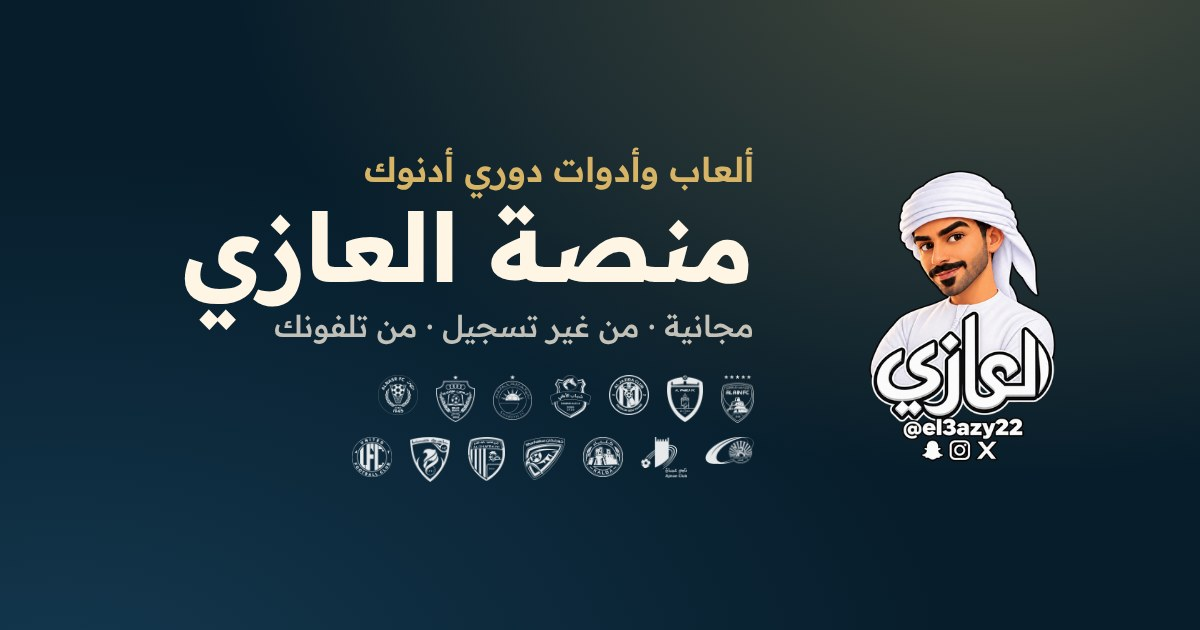
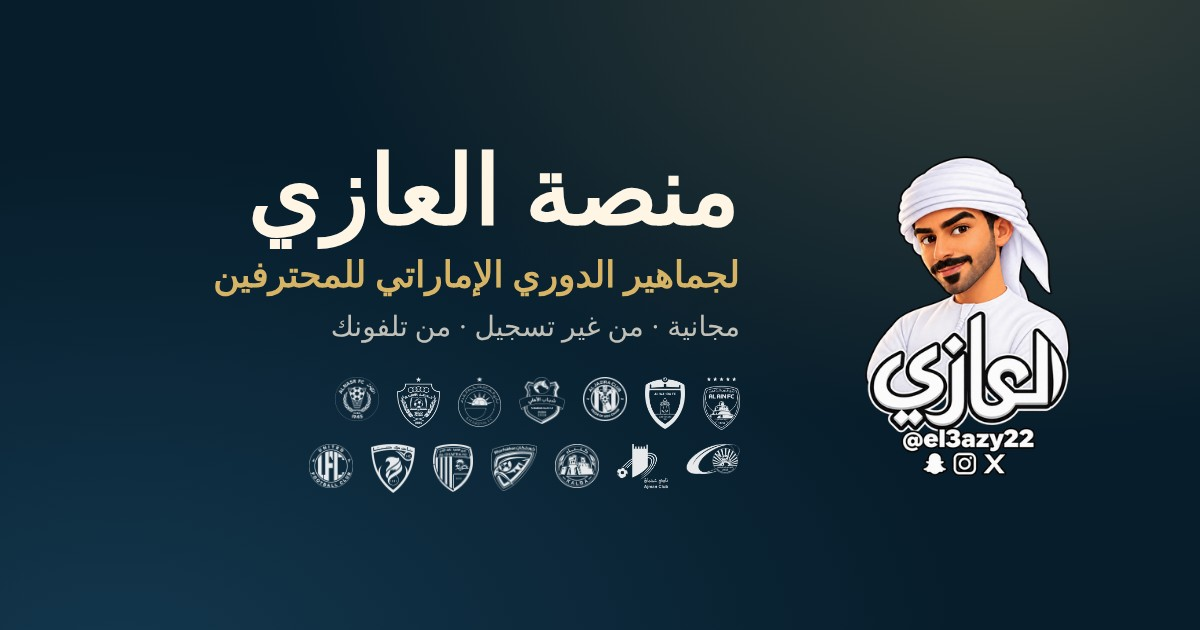
المنصة: الاسم أول تحت الشعار، أيقونات ذهبية للأقسام، «متوفرة الحين»، وتوحيد هيدر التشكيلة مع باقي الأقسام
Claude-Session: https://claude.ai/code/session_01WF1Y1PSxKJ98Kmic7NeBD3

Changed region(s): [[0.1542, 0.2413, 0.6475, 0.5429], [0.7092, 0.2413, 0.8942, 0.754], [0.2467, 0.573, 0.6475, 0.7841]]

diff --git a/index.html b/index.html
@@ -1,10 +1,10 @@
 <!DOCTYPE html>
 <html lang="ar" dir="rtl"><head>
 <meta charset="utf-8"><meta name="viewport" content="width=device-width,initial-scale=1,viewport-fit=cover">
-<title>منصة العازي · لجماهير دوري أدنوك</title>
-<meta name="description" content="ألعاب وأدوات مجانية لجماهير دوري أدنوك للمحترفين من العازي.">
-<meta property="og:title" content="منصة العازي · لجماهير دوري أدنوك">
-<meta property="og:description" content="ألعاب وأدوات مجانية لجماهير دوري أدنوك للمحترفين.">
+<title>منصة العازي · لجماهير الدوري الإماراتي للمحترفين</title>
+<meta name="description" content="ألعاب وأدوات مجانية لجماهير الدوري الإماراتي للمحترفين من العازي.">
+<meta property="og:title" content="منصة العازي · لجماهير الدوري الإماراتي للمحترفين">
+<meta property="og:description" content="ألعاب وأدوات مجانية لجماهير الدوري الإماراتي للمحترفين.">
 <meta property="og:image" content="https://el3azy22.github.io/assets/og-portal.jpg">
 <meta property="og:url" content="https://el3azy22.github.io/">
 <meta name="twitter:card" content="summary_large_image">
@@ -20,8 +20,8 @@ body{font-family:'Readex Pro',system-ui,sans-serif;color:var(--ivory);min-height
 .wrap{max-width:520px;margin:0 auto;padding:28px 18px calc(28px + env(safe-area-inset-bottom))}
 header{text-align:center}
 header img{width:132px;height:132px;object-fit:contain}
-.kick{color:var(--gold);font-weight:600;font-size:15px;margin-top:6px}
-h1{font-size:30px;font-weight:700;margin-top:2px}
+.kick{color:var(--gold);font-weight:600;font-size:14.5px;margin-top:4px}
+h1{font-size:32px;font-weight:700;margin-top:4px;line-height:1.3}
 .sub{opacity:.72;font-size:14.5px;margin-top:6px;line-height:1.7}
 .crests{display:flex;flex-wrap:wrap;justify-content:center;gap:10px 12px;margin:20px auto 6px;max-width:330px}
 .crests img{object-fit:contain;opacity:.9}
@@ -29,7 +29,13 @@ h2{font-size:14px;color:var(--gold);font-weight:600;margin:26px 4px 10px}
 .tool{display:flex;align-items:center;gap:14px;text-decoration:none;color:inherit;background:linear-gradient(180deg,rgba(20,56,79,.75),rgba(12,38,56,.75));border:1px solid rgba(215,180,101,.35);border-radius:20px;padding:16px;margin-bottom:12px;transition:transform .15s,border-color .15s}
 .tool:active{transform:scale(.98)}
 .tool:hover{border-color:var(--gold)}
-.ic{width:56px;height:56px;border-radius:16px;display:grid;place-items:center;font-size:28px;flex-shrink:0;background:rgba(215,180,101,.14);border:1px solid rgba(215,180,101,.4)}
+.ic{width:58px;height:58px;border-radius:18px;display:grid;place-items:center;flex-shrink:0;position:relative;
+ background:radial-gradient(circle at 30% 18%,rgba(240,217,154,.28),transparent 60%),linear-gradient(160deg,#16405A,#0A2232);
+ border:1px solid rgba(215,180,101,.6);box-shadow:inset 0 1px 0 rgba(255,240,200,.22),inset 0 -6px 12px rgba(0,0,0,.25),0 6px 14px rgba(0,0,0,.35)}
+.ic svg{width:32px;height:32px;fill:none;stroke:url(#gg);stroke-width:1.8;stroke-linecap:round;stroke-linejoin:round;filter:drop-shadow(0 1px 1px rgba(0,0,0,.45))}
+.ic svg .f{fill:url(#gg);stroke:none}
+.ic svg .s{fill:url(#gg);fill-opacity:.18}
+.soon .ic{filter:saturate(.6)}
 .tool b{display:block;font-size:18px;font-weight:700}
 .tool span.d{display:block;font-size:13px;opacity:.72;margin-top:3px;line-height:1.6}
 .tool .go{margin-inline-start:auto;color:var(--gold);font-size:22px;flex-shrink:0}
@@ -44,35 +50,36 @@ footer a{color:var(--gold);text-decoration:none;font-weight:600}
 <div class="wrap">
 <header>
   <img src="mano/assets/logo.png" alt="العازي">
-  <div class="kick">لجماهير دوري أدنوك</div>
   <h1>منصة العازي</h1>
+  <div class="kick">لجماهير الدوري الإماراتي للمحترفين</div>
   <div class="crests" id="crests"></div>
 </header>
 
-<h2>العب الحين</h2>
+<svg width="0" height="0" style="position:absolute" aria-hidden="true"><defs><linearGradient id="gg" x1="0" y1="0" x2="0" y2="32" gradientUnits="userSpaceOnUse"><stop offset="0" stop-color="#F6E3AE"/><stop offset=".55" stop-color="#D7B465"/><stop offset="1" stop-color="#B08A3E"/></linearGradient></defs></svg>
+<h2>متوفرة الحين</h2>
 <a class="tool" href="mano/">
-  <div class="ic">🕵</div>
+  <div class="ic"><svg viewBox="0 0 32 32" aria-hidden="true"><path class="s" d="M11 5 6 7.5 3 13l4 2 1.5-2.5V27h15V12.5L25 15l4-2-3-5.5L21 5c-1 2-2.8 3-5 3s-4-1-5-3Z"/><path d="M13.7 15.3c0-1.5 1-2.5 2.4-2.5s2.4.9 2.4 2.2c0 1.8-2.5 2-2.5 4"/><circle class="f" cx="16" cy="22.3" r="1.15"/></svg></div>
   <div><b>منو اللاعب؟ <span class="badge new" id="manoBadge">يديد</span></b><span class="d">كل يوم لاعب سري من دوري أدنوك، وعندك 6 محاولات تعرفه</span></div>
   <div class="go">‹</div>
 </a>
 <a class="tool" href="tashkila/">
-  <div class="ic">📋</div>
+  <div class="ic"><svg viewBox="0 0 32 32" aria-hidden="true"><rect class="s" x="5" y="3" width="22" height="26" rx="3"/><path d="M5 16h22M11.5 3v4.2h9V3M11.5 29v-4.2h9V29"/><circle cx="16" cy="16" r="3.2"/><circle class="f" cx="10" cy="10.5" r="1.5"/><circle class="f" cx="22" cy="10.5" r="1.5"/><circle class="f" cx="10.5" cy="21.5" r="1.5"/><circle class="f" cx="21.5" cy="21.5" r="1.5"/></svg></div>
   <div><b>اختار تشكيلتك</b><span class="d">اختار ناديك والخطة، وركّب تشكيلتك الأساسية</span></div>
   <div class="go">‹</div>
 </a>
 <a class="tool" href="rate/" id="rateLive" hidden>
-  <div class="ic">⭐</div>
+  <div class="ic"><svg viewBox="0 0 32 32" aria-hidden="true"><polygon class="s" points="16.0,5.0 19.2,12.6 27.4,13.3 21.1,18.7 23.1,26.7 16.0,22.4 8.9,26.7 10.9,18.7 4.6,13.3 12.8,12.6"/></svg></div>
   <div><b>قيّم اللاعبين <span class="badge new">يديد</span></b><span class="d">بعد صافرة النهاية قيّم كل لاعب من 1 لين 10، وشوف تقييم الجماهير</span></div>
   <div class="go">‹</div>
 </a>
 
 <h2>قريباً</h2>
 <div class="tool soon" id="rateSoon">
-  <div class="ic">⭐</div>
-  <div><b>قيّم اللاعبين <span class="badge">قريباً</span></b><span class="d">قيّم لاعبين فريقك بعد كل امباراة</span></div>
+  <div class="ic"><svg viewBox="0 0 32 32" aria-hidden="true"><polygon class="s" points="16.0,5.0 19.2,12.6 27.4,13.3 21.1,18.7 23.1,26.7 16.0,22.4 8.9,26.7 10.9,18.7 4.6,13.3 12.8,12.6"/></svg></div>
+  <div><b>قيّم اللاعبين <span class="badge">قريباً</span></b><span class="d">قيّم لاعبين فريقك بعد كل مباراة</span></div>
 </div>
 <div class="tool soon">
-  <div class="ic">🎯</div>
+  <div class="ic"><svg viewBox="0 0 32 32" aria-hidden="true"><circle class="s" cx="15" cy="17" r="11"/><circle cx="15" cy="17" r="6.3"/><circle class="f" cx="15" cy="17" r="2"/><path d="M15 17 26.5 5.5M23 5l3.5.5.5 3.5"/></svg></div>
   <div><b>دوري التوقعات <span class="badge">قريباً</span></b><span class="d">توقّع نتايج الجولة ونافس الجماهير في ترتيب أسبوعي</span></div>
 </div>
 

diff --git a/tashkila/index.html b/tashkila/index.html
@@ -18,11 +18,13 @@ body{font-family:Readex,system-ui,sans-serif;color:var(--ink);background:var(--c
   radial-gradient(120% 80% at 50% 0%,color-mix(in srgb,var(--c1) 85%,#fff 15%) 0%,var(--c1) 55%,color-mix(in srgb,var(--c1) 70%,#000 30%) 100%);
   transition:background .5s;min-height:100vh}
 .wrap{max-width:560px;margin:0 auto;padding:16px 14px 72px}
-header{display:flex;align-items:center;justify-content:space-between;gap:12px}
-header img{width:76px;height:76px;object-fit:contain}
-h1{margin:0;font-size:24px;font-weight:700;line-height:1.3}
-.sub{margin:2px 0 0;font-size:14px;color:var(--soft);font-weight:500}
-.lbl{font-size:15px;font-weight:600;margin:18px 0 10px;color:var(--soft)}
+header{display:flex;align-items:center;gap:10px;padding:4px 0 2px}
+header a.home{display:block;flex-shrink:0;line-height:0}
+header img{height:62px;width:auto;object-fit:contain}
+h1{margin:0;font-size:24px;font-weight:700;line-height:1.2}
+.sub{margin:2px 0 0;font-size:12px;color:var(--c2);font-weight:600}
+@media (max-width:360px){h1{font-size:20px}header img{height:50px}}
+.lbl{font-size:14px;font-weight:600;margin:18px 2px 10px;color:var(--c2)}
 html,body{touch-action:pan-y;overflow-x:hidden;-webkit-text-size-adjust:100%;text-size-adjust:100%}
 button,select,input,textarea,.club,.slot,.pl,.list,.sheet{touch-action:pan-y}
 .fms,.fm{touch-action:pan-x pan-y;-webkit-overflow-scrolling:touch;overscroll-behavior-x:contain}
@@ -117,11 +119,11 @@ footer{position:fixed;left:0;right:0;bottom:12px;text-align:center;font-size:13p
 <body>
 <div class="wrap">
   <header>
+    <a class="home" href="../" aria-label="منصة العازي"><img src="assets/el3azy.png" alt="العازي"></a>
     <div>
       <h1>اختار تشكيلتك</h1>
-      <p class="sub">كرة القدم الإماراتية</p>
+      <p class="sub">دوري أدنوك والمنتخب</p>
     </div>
-    <img src="assets/el3azy.png" alt="العازي">
   </header>
 
   <div class="flagbar" aria-hidden="true"><i></i><b></b></div>

diff --git a/mano/index.html b/mano/index.html
@@ -167,7 +167,7 @@ footer a{color:inherit}
 <div class="toast" id="toast"></div>
 <div class="wrap">
   <header>
-    <img class="logo" src="assets/logo.png" alt="العازي">
+    <a href="../" aria-label="منصة العازي" style="line-height:0;flex-shrink:0"><img class="logo" src="assets/logo.png" alt="العازي"></a>
     <div class="ttl"><h1>منو اللاعب؟</h1><div class="day" id="dayLbl">تحدي العازي اليومي</div></div>
     <button class="icon" id="sndBtn" aria-label="الصوت">🔊</button>
     <button class="icon" id="statsBtn" aria-label="إحصائياتي">📊</button>

diff --git a/rate/index.html b/rate/index.html
@@ -123,7 +123,7 @@ footer a{color:inherit}
 <div class="toast" id="toast"></div>
 <div class="wrap">
   <header>
-    <img class="logo" src="../mano/assets/logo.png" alt="العازي">
+    <a href="../" aria-label="منصة العازي" style="line-height:0;flex-shrink:0"><img class="logo" src="../mano/assets/logo.png" alt="العازي"></a>
     <div class="ttl"><h1>قيّم اللاعبين</h1><div class="sub" id="sub">دوري أدنوك للمحترفين</div></div>
     <button class="icon" id="helpBtn" aria-label="كيف تقيّم">؟</button>
   </header>
